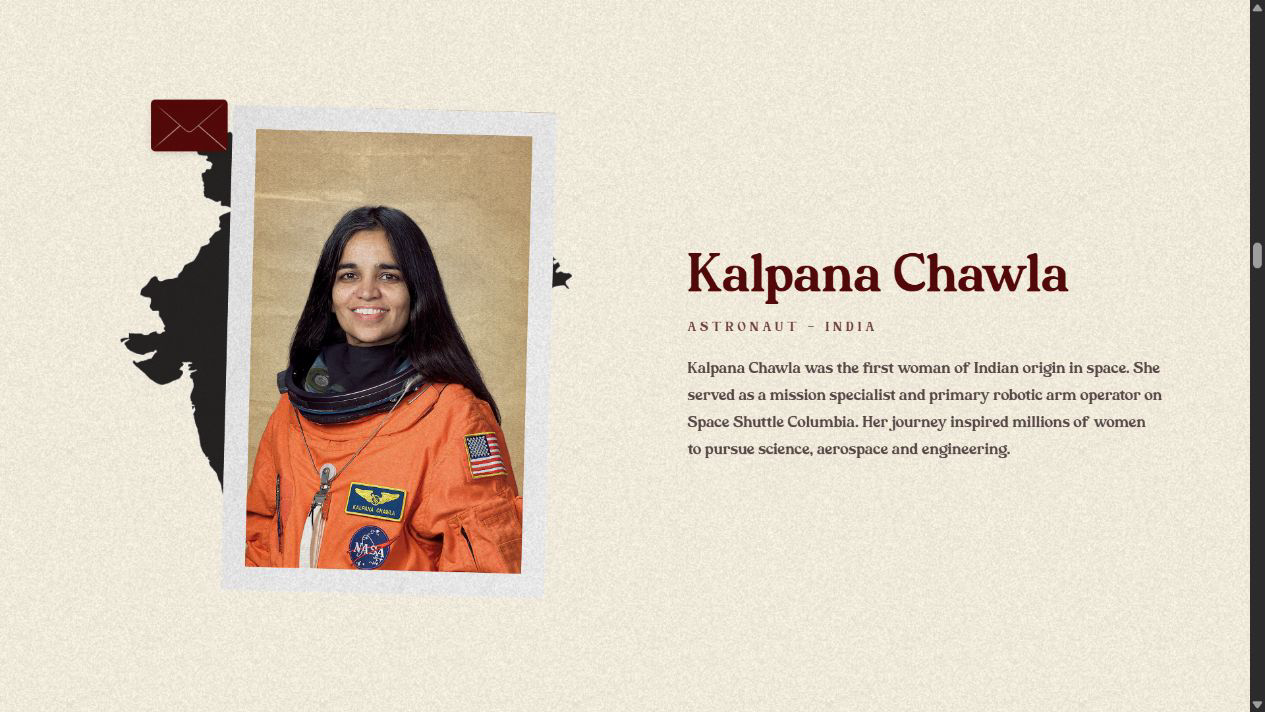
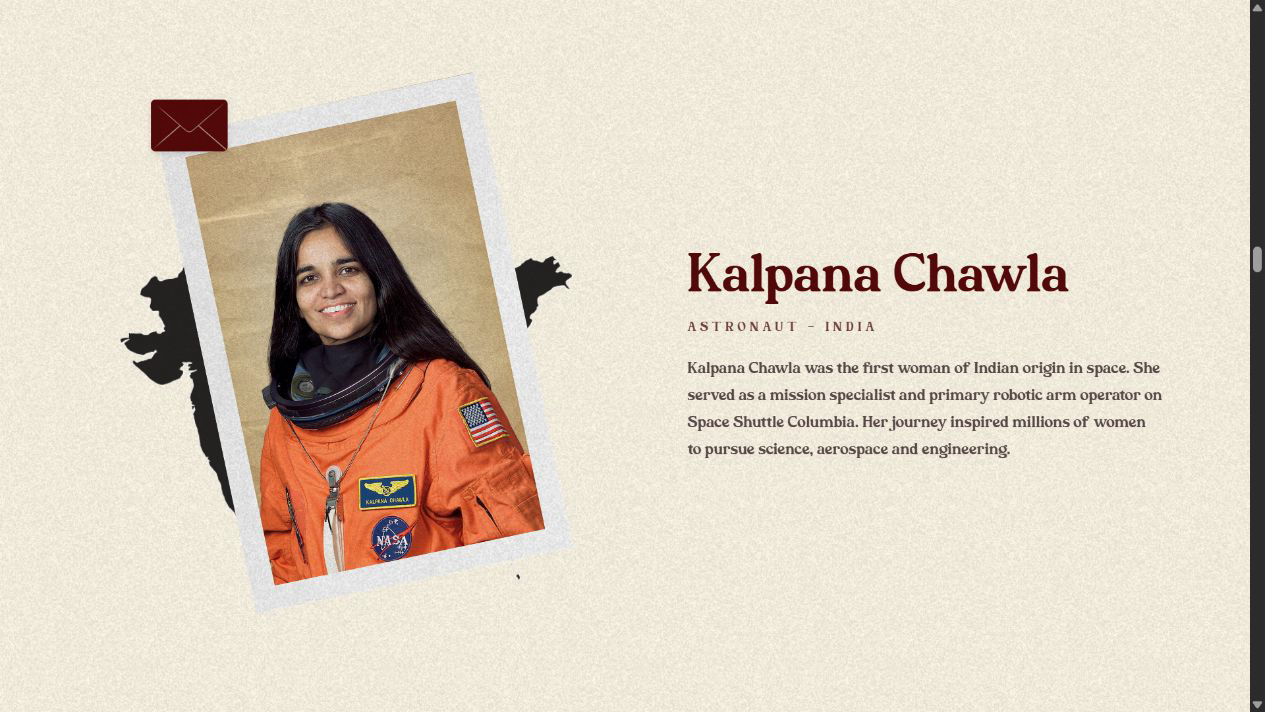
feat: give STEM portraits a prominent rising and tilting scroll motion
Match the supplied recording's prominent archival-card lift: start the whole portrait below the viewport, rise across a longer quarter-scene scroll span, and keep increasing its slant throughout the rise and final coast. Replace the previous small tilt settlement with thirteen degrees of progressive rotation and 1.15-second reversible scrub smoothing.

Reveal moving portraits by bottom-edge travel rather than fading them in. Account for the strongest tilt when measuring phone biography clearance, and preserve reduced-motion behavior. Leave globe motion, silhouette animation, biography timing, and page layout unchanged.

Validation: lint and production build pass. Reviewed bottom-edge entry and progressive tilt, intact corners across all five desktop portraits, and 390x844 / 375x667 phone layouts without console errors. Update preview screenshots and add a scroll-sequence contact sheet. Existing bundle warning remains.

Changed region(s): [[0.1233, 0.1236, 0.4625, 0.8343], [0.9866, 0.3399, 1.0, 0.4017]]

diff --git a/src/pages/WomenInStem.tsx b/src/pages/WomenInStem.tsx
@@ -202,7 +202,7 @@ export default function WomenInStem() {
         const restingY = () => {
           if (!mobile) return 0;
           const text = section.querySelector<HTMLElement>(".scientist-text")!;
-          const angle = Math.abs(scientists[i].photoRotation) * DEG;
+          const angle = Math.abs(scientists[i].photoRotation - (reduced ? 0 : 15)) * DEG;
           const halfHeight = (photo.offsetHeight * Math.cos(angle) + photo.offsetWidth * Math.sin(angle)) / 2;
           const center = window.innerHeight / 2;
           // Keep the rotated paper above longer biographies on short phones.
@@ -212,34 +212,38 @@ export default function WomenInStem() {
         gsap.set(photo, {
           xPercent: -50, yPercent: -50,
           x: () => mobile ? 0 : -window.innerWidth * .18,
-          y: () => restingY() + (reduced ? 0 : window.innerHeight * (mobile ? .36 : .52)),
-          scale: reduced ? 1 : .91,
-          rotation: scientists[i].photoRotation - (reduced ? 0 : 3),
+          // Start with the entire rotated print below the viewport, including
+          // its upper corners. The rise, rather than a fade, reveals it.
+          y: () => reduced ? restingY() : window.innerHeight * .5 + photo.offsetHeight * .7 + 48,
+          scale: reduced ? 1 : .94,
+          rotation: scientists[i].photoRotation - (reduced ? 0 : 2),
           opacity: 0,
           transformOrigin: "50% 70%",
         });
-        // Separate from the globe timeline: one continuous, reversible lift.
-        // A brief visibility ramp reveals the print; the longer rise supplies
-        // the entrance, rather than a pop-in or an endless idle bob.
+        // A long, almost linear lift with accumulating tilt, like archival
+        // prints drifting past the camera. The globe has its own timeline.
         const portrait = gsap.timeline({
           scrollTrigger: {
             trigger: section, start: "top bottom", end: "bottom top",
-            scrub: reduced ? true : 1.05,
+            scrub: reduced ? true : 1.15,
             invalidateOnRefresh: true,
             onToggle: self => { photo.style.willChange = self.isActive ? "transform, opacity" : "auto"; },
           },
         });
-        portrait.to(photo, { opacity: 1, duration: reduced ? .01 : .055, ease: "sine.out" }, .30);
+        if (reduced) portrait.to(photo, { opacity: 1, duration: .01 }, .30);
+        else portrait.set(photo, { opacity: 1 }, .26);
         if (!reduced) {
           portrait.to(photo, {
-            y: restingY, scale: 1, rotation: scientists[i].photoRotation,
-            duration: .19, ease: "power1.out",
+            y: restingY, scale: 1, rotation: scientists[i].photoRotation - 10,
+            duration: .25, ease: "none",
           }, .28);
           portrait.to(photo, {
-            y: () => restingY() - window.innerHeight * .035,
-            rotation: scientists[i].photoRotation + .7,
-            duration: .13, ease: "sine.inOut",
-          }, .47);
+            y: () => mobile
+              ? Math.max(restingY() - window.innerHeight * .045, 20 + photo.offsetHeight * .6 - window.innerHeight / 2)
+              : -window.innerHeight * .04,
+            rotation: scientists[i].photoRotation - 15,
+            duration: .10, ease: "sine.out",
+          }, .53);
         }
         if (i < scientists.length - 1) {
           portrait.to(photo, { opacity: 0, duration: .08, ease: "sine.in" }, .60);

diff --git a/docs/stem-portraits.md b/docs/stem-portraits.md
@@ -2,8 +2,8 @@
 
 The five existing portrait assets now use an independent GSAP ScrollTrigger timeline. The globe renderer, camera choreography, country silhouettes, biography timing, and section dimensions are unchanged.
 
-Portraits rise over 19% of each section's scroll range, with 1.05-second scrub smoothing in both directions. A 91%-to-100% scale and three-degree tilt settle gently, followed by a small upward drift while the biography is readable. The existing exit window is retained; the final portrait scrolls away with its section. There is no autonomous bounce or looping bob.
+Portraits begin entirely below the viewport, including their rotated upper corners. They rise over 25% of each section's scroll range with 1.15-second scrub smoothing in both directions. A restrained 94%-to-100% scale accompanies a much more prominent, continuously increasing tilt: from two degrees beyond each portrait's original angle to fifteen degrees beyond it. A final upward coast continues the turn while the biography is readable. Moving portraits are fully opaque before entering the screen, so their arrival comes from travel rather than a fade. The existing exit window is retained; the final portrait scrolls away with its section. There is no autonomous bounce or looping bob.
 
-Phone travel is smaller, and the resting height accounts for the rotated image's bounds and biography position, keeping paper clear of longer text on short screens. Reduced motion removes translation, scale changes, and tilt interpolation, keeping a short visibility transition. MatchMedia reverts transforms and triggers on breakpoint changes/unmount; will-change is active only within a scene's scroll range.
+Phone resting height accounts for the strongest rotated image bounds and biography position, keeping paper clear of longer text on short screens. Reduced motion removes translation, scale changes, and tilt interpolation, keeping a short visibility transition. MatchMedia reverts transforms and triggers on breakpoint changes/unmount; will-change is active only within a scene's scroll range.
 
 Validation: ESLint and the production build pass (existing bundle warning remains). Browser review covered all five desktop portraits, forward/backward scrolling, and 390×844 and 375×667 phone layouts, with no console errors. Reduced-motion behavior is implemented but was not browser-emulated. Screenshots show settled poses; review the live page for the entrance.
